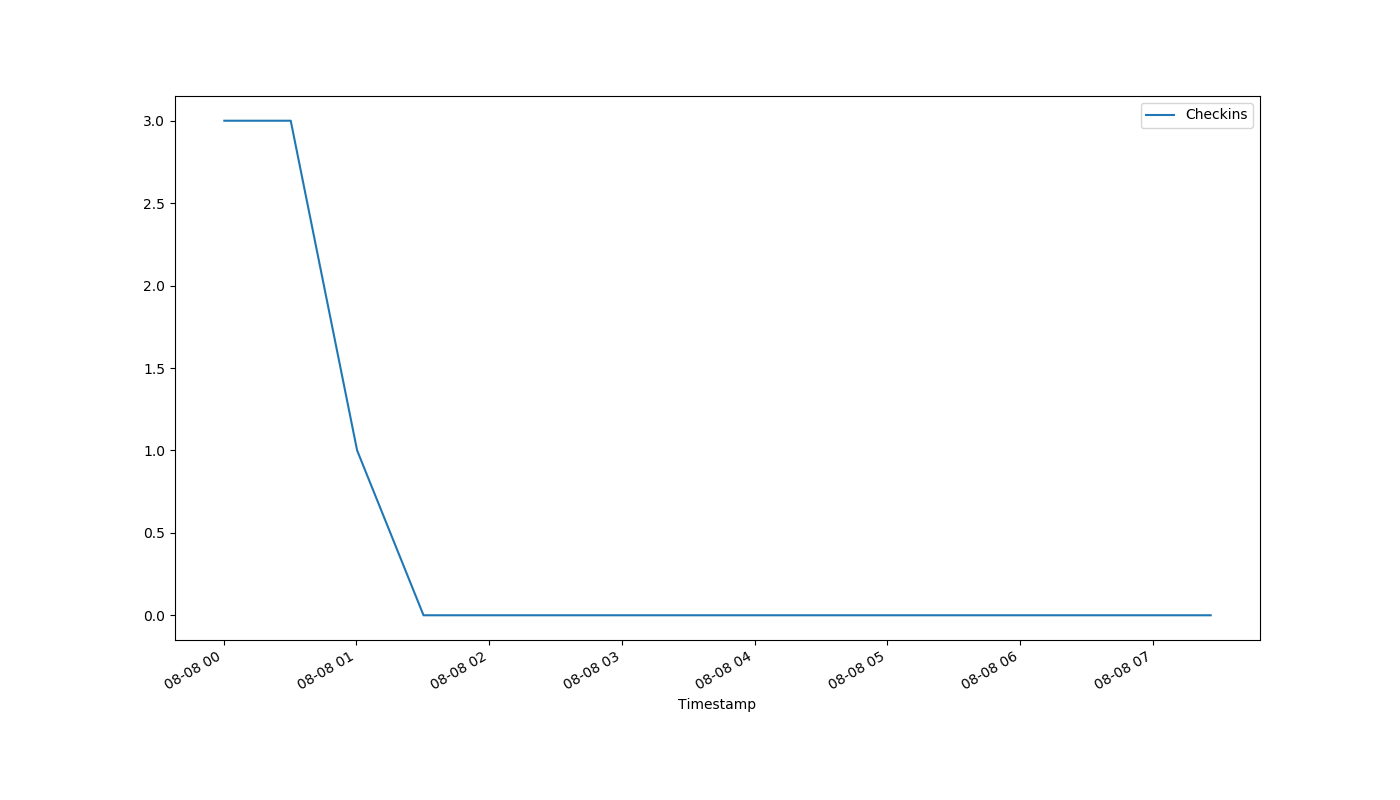
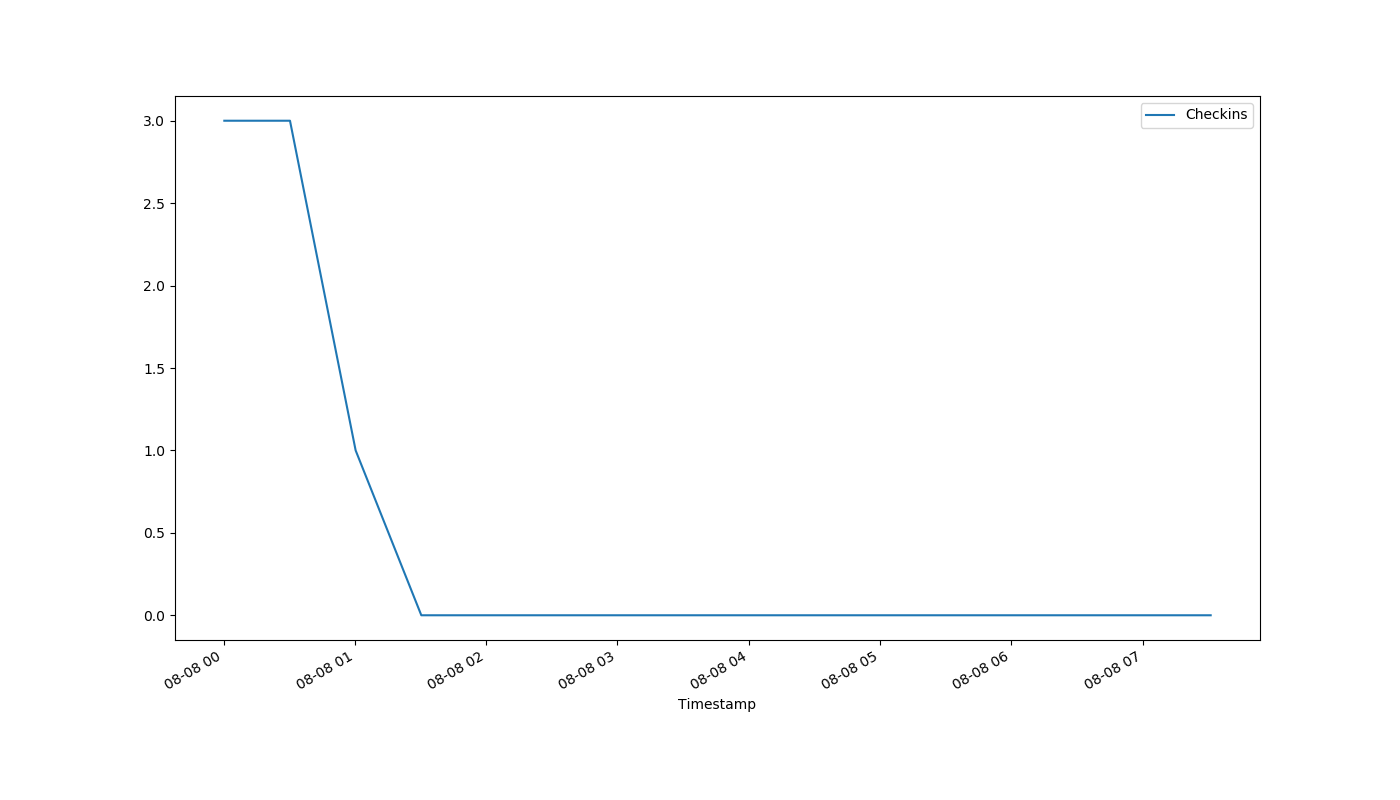
auto-Aug-08-07:33:16

diff --git a/index.html b/index.html
@@ -1,1 +1,1 @@
-<!DOCTYPE html><html><head><meta http-equiv="refresh" content="30"><link rel='stylesheet' href='holmcurrent.css'></head><body><p id='count'>0</p><div id='graph-wrap'><img id='graph' src='holmgraph-Aug-08.png'></div><p id='updated'>Last updated 07:27:00 / 07:26:02</p></body></html>
+<!DOCTYPE html><html><head><meta http-equiv="refresh" content="30"><link rel='stylesheet' href='holmcurrent.css'></head><body><p id='count'>0</p><div id='graph-wrap'><img id='graph' src='holmgraph-Aug-08.png'></div><p id='updated'>Last updated 07:32:00 / 07:31:02</p></body></html>
